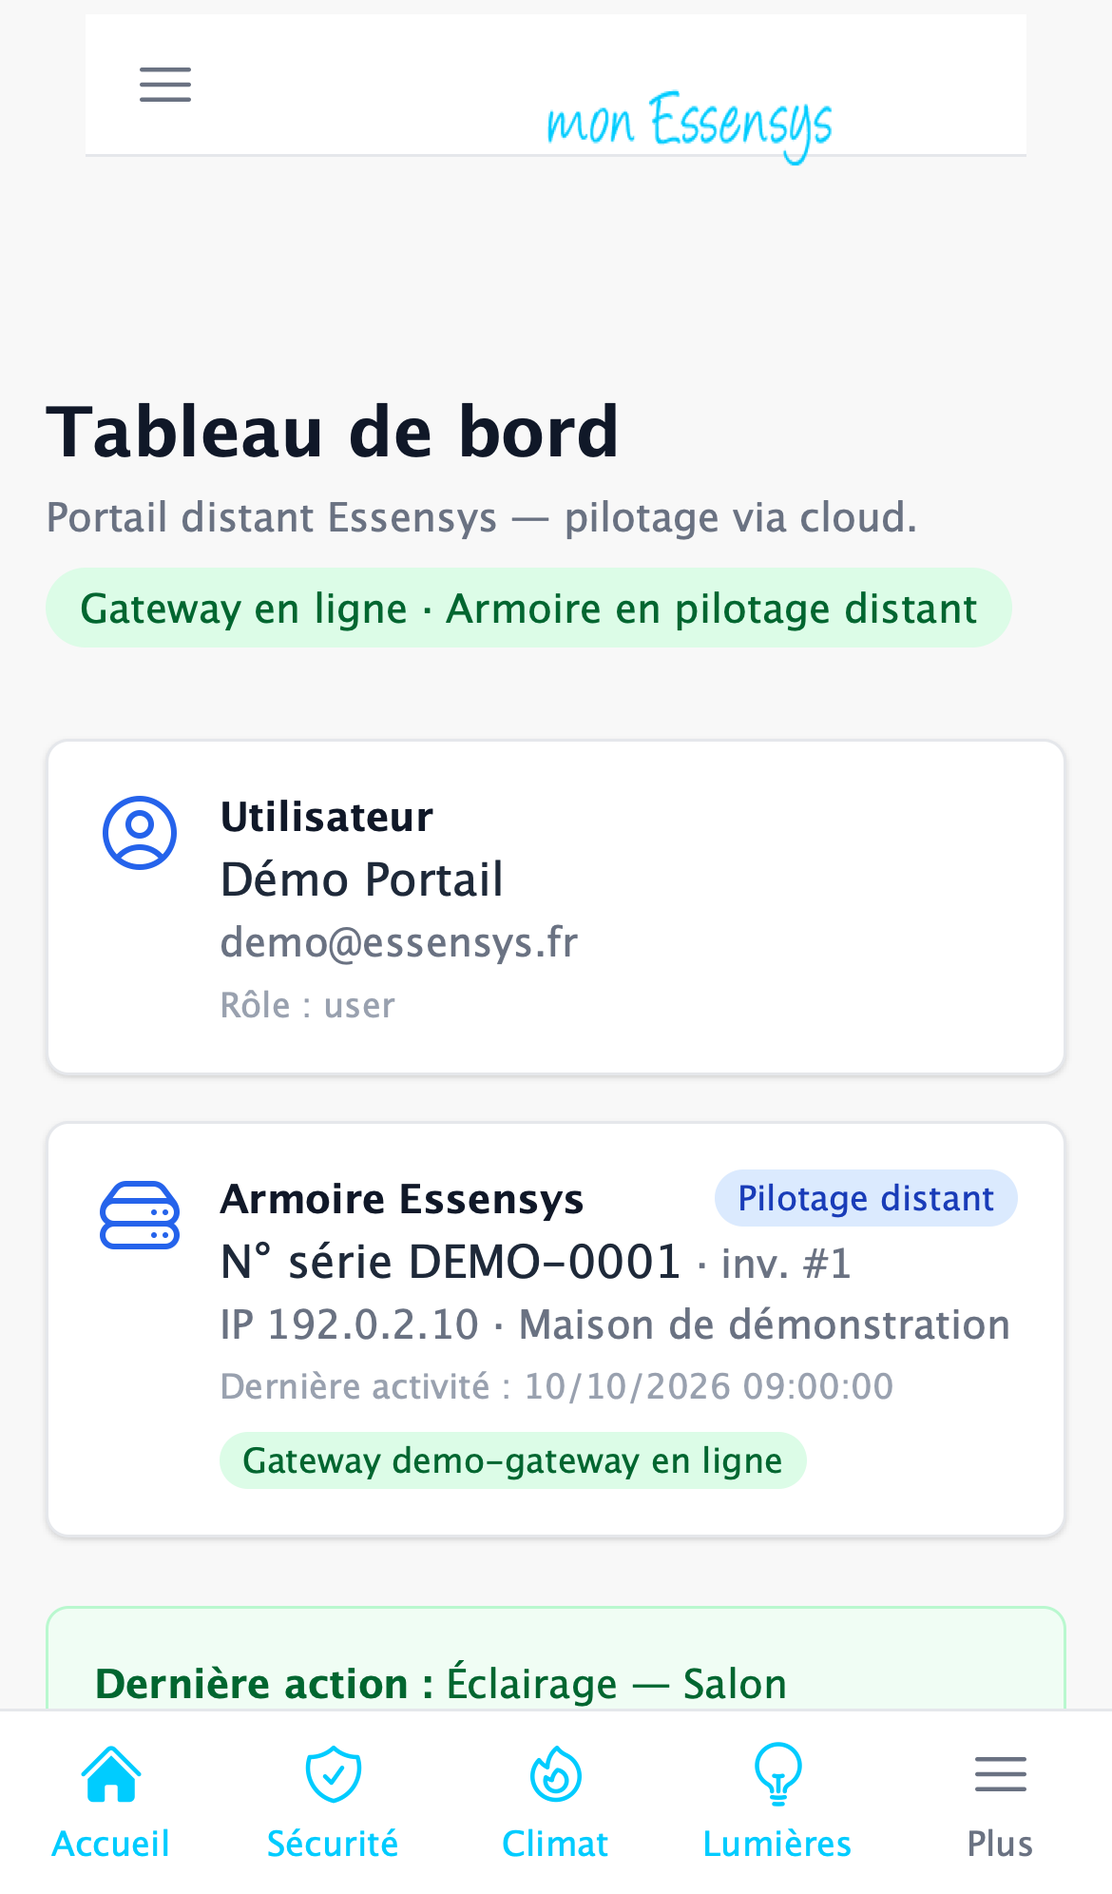
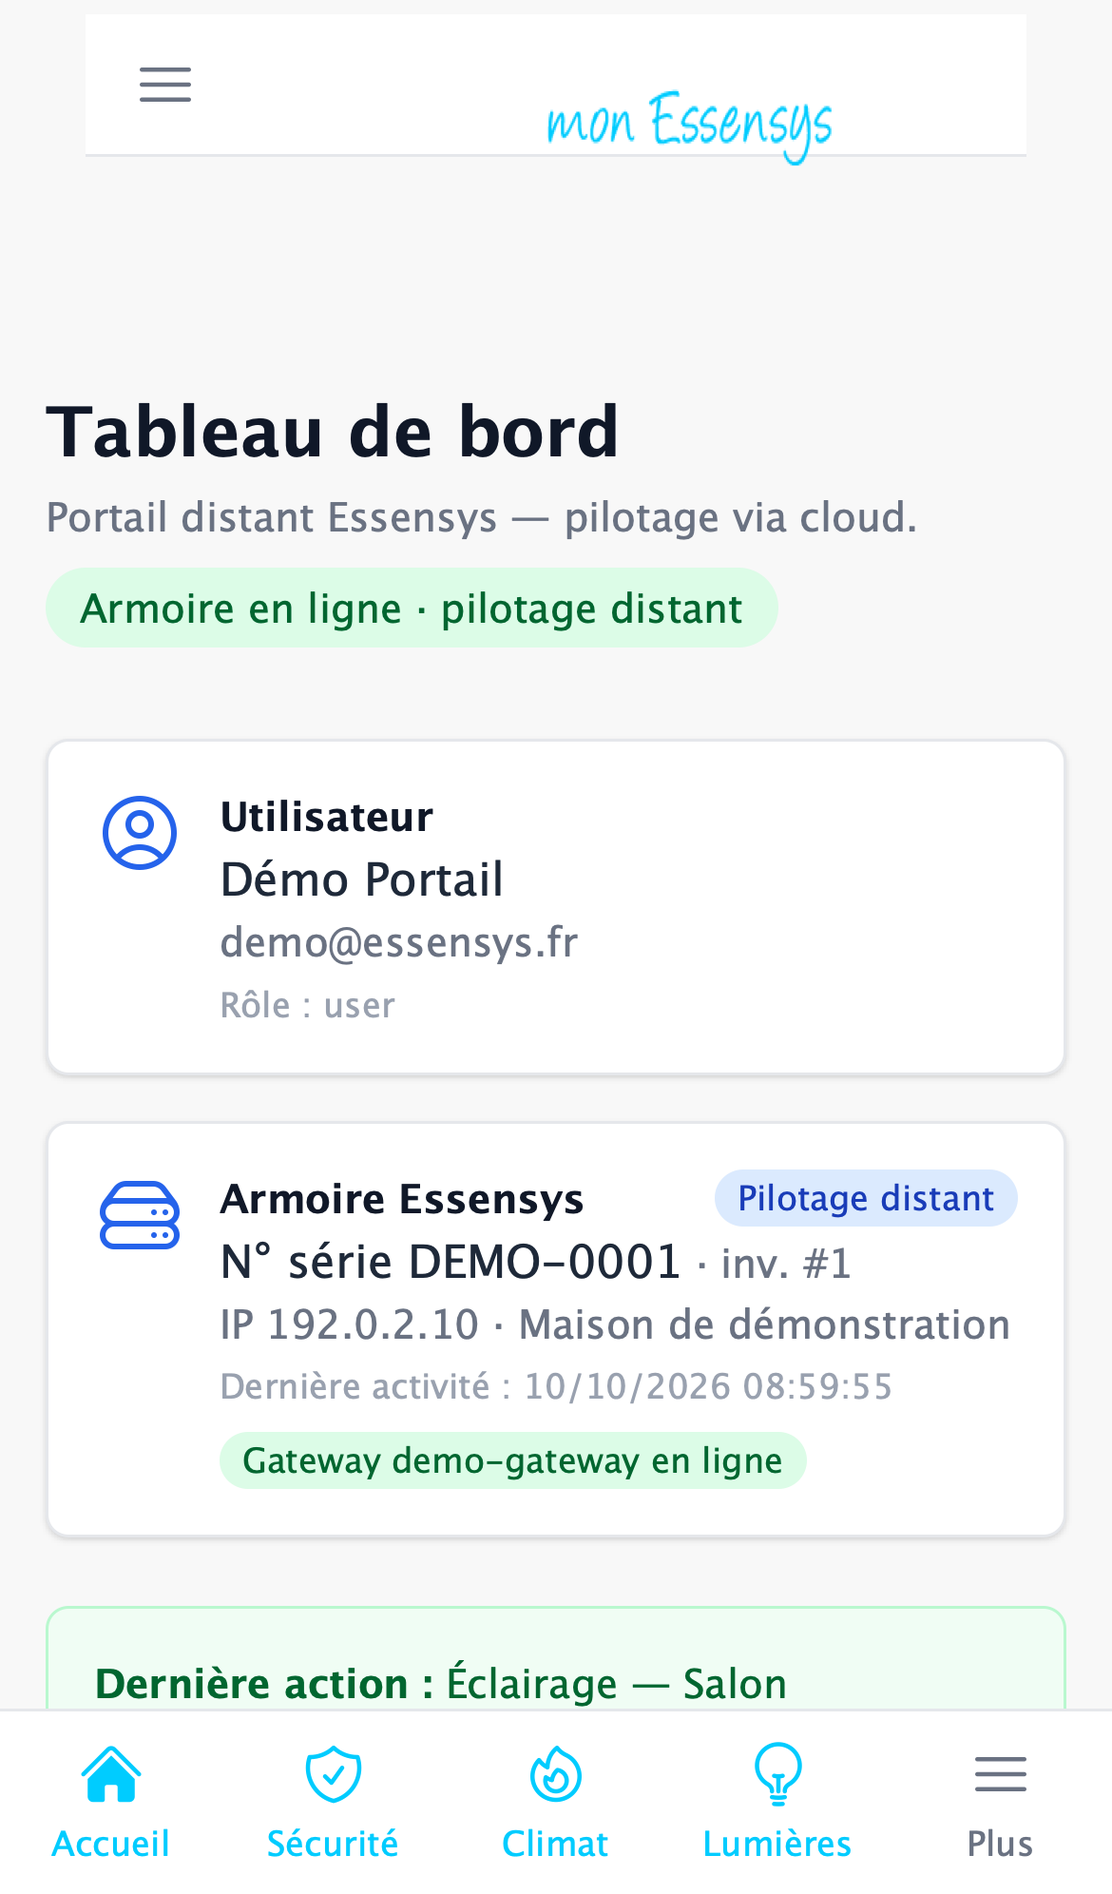
fix(portal): armoire en ligne avec ou sans gateway (#34, #35)
isArmoireOnline(session) : gateway.online OU armoire.online, utilisé par le
tableau de bord (badge « Armoire en ligne »), Scénarios et la carte Prises
de sécurité. Session démo à variantes (avec ou sans gateway, armoire vue
ou ancienne). Guide utilisateur et captures du tableau de bord alignés.

NR-portal-frontend-9 : Playwright, cas A à F, desktop / iPhone / iPad,
garde no-armoire (le cas sans gateway est le signalement #37).

Feature: armoire-online-sans-gateway-2026-10-012
Refs essensys-hub/essensys-feature-lifecycle#37
Refs #34 #35

diff --git a/src/mockFetch.ts b/src/mockFetch.ts
@@ -2,6 +2,61 @@ import { handleMockScenarioRequest } from './mockScenarios';
 
 const originalFetch = window.fetch;
 
+
+/**
+ * Variantes de la session simulée (armoire-online-sans-gateway-2026-10-012), choisies par
+ * `sessionStorage['essensys_demo_session']` : avec ou sans gateway, armoire vue ou ancienne.
+ */
+export type DemoSessionVariant =
+  | 'gateway-online'
+  | 'gateway-offline-armoire-seen'
+  | 'all-offline'
+  | 'no-gateway-seen'
+  | 'no-gateway-old'
+  | 'none';
+
+const demoSessionVariant = (): DemoSessionVariant => {
+  try {
+    return (sessionStorage.getItem('essensys_demo_session') as DemoSessionVariant | null) ?? 'gateway-online';
+  } catch {
+    return 'gateway-online';
+  }
+};
+
+const demoSession = (variant: DemoSessionVariant) => {
+  const hasGateway = variant === 'gateway-online' || variant === 'gateway-offline-armoire-seen' || variant === 'all-offline';
+  const gatewayOnline = variant === 'gateway-online';
+  const armoireSeen = variant === 'gateway-online' || variant === 'gateway-offline-armoire-seen' || variant === 'no-gateway-seen';
+  const lastSeen = new Date(Date.now() - (armoireSeen ? 5_000 : 10 * 60_000)).toISOString();
+  return {
+    portal_access: true,
+    user: {
+      id: 1,
+      email: 'demo@essensys.fr',
+      first_name: 'Démo',
+      last_name: 'Portail',
+      role: 'user',
+      linked_gateway_id: hasGateway ? 'gw-demo' : null,
+    },
+    ...(hasGateway ? { gateway: { id: 'gw-demo', online: gatewayOnline, hostname: 'demo-gateway' } } : {}),
+    // Armoire fictive (guide utilisateur, portal-user-guide-2026-10-006) : IP de la
+    // plage réservée à la documentation (RFC 5737), aucun équipement réel.
+    ...(variant === 'none'
+      ? {}
+      : {
+          armoire: {
+            id: 1,
+            no_serie: 'DEMO-0001',
+            ip: '192.0.2.10',
+            geo_location: 'Maison de démonstration',
+            last_seen: lastSeen,
+            remote: true,
+            online: armoireSeen,
+          },
+        }),
+  };
+};
+
 export function setupMocks() {
   console.log('[MOCK] Portail demo — mocks actifs (zéro action armoire)');
 
@@ -33,28 +88,7 @@ export function setupMocks() {
     }
 
     if (url.includes('/api/portal/session') && method === 'GET') {
-      return jsonResponse({
-        portal_access: true,
-        user: {
-          id: 1,
-          email: 'demo@essensys.fr',
-          first_name: 'Démo',
-          last_name: 'Portail',
-          role: 'user',
-          linked_gateway_id: 'gw-demo',
-        },
-        gateway: { id: 'gw-demo', online: true, hostname: 'demo-gateway' },
-        // Armoire fictive (guide utilisateur, portal-user-guide-2026-10-006) : IP de la
-        // plage réservée à la documentation (RFC 5737), aucun équipement réel.
-        armoire: {
-          id: 1,
-          no_serie: 'DEMO-0001',
-          ip: '192.0.2.10',
-          geo_location: 'Maison de démonstration',
-          last_seen: new Date().toISOString(),
-          remote: true,
-        },
-      });
+      return jsonResponse(demoSession(demoSessionVariant()));
     }
 
     if (url.includes('/api/portal/inject') && method === 'POST') {

diff --git a/e2e/tests/noArmoire.ts b/e2e/tests/noArmoire.ts
@@ -12,15 +12,24 @@ declare global {
   }
 }
 
+/** Variantes de la session simulée (voir `DemoSessionVariant` dans src/mockFetch.ts). */
+export type SessionVariant =
+  | 'gateway-online'
+  | 'gateway-offline-armoire-seen'
+  | 'all-offline'
+  | 'no-gateway-seen'
+  | 'no-gateway-old'
+  | 'none';
+
 /**
  * Garde no-armoire : toute requête hors localhost est bloquée, et le fetch simulé du mode démo
- * est enveloppé pour enregistrer les écritures (POST/PUT) vers /api/portal. Avec
- * `gatewayOffline`, la session simulée annonce une armoire hors ligne ; avec `withoutState`, la
+ * est enveloppé pour enregistrer les écritures (POST/PUT) vers /api/portal. `session` choisit la
+ * session simulée (avec ou sans gateway, armoire vue ou ancienne) ; avec `withoutState`, la
  * table d'échange ne renvoie pas l'indice 440 (installation sans gateway).
  */
 export async function noArmoire(
   page: Page,
-  opts: { gatewayOffline?: boolean; withoutState?: boolean } = {},
+  opts: { session?: SessionVariant; withoutState?: boolean } = {},
 ): Promise<string[]> {
   const external: string[] = [];
   await page.route('**/*', (route) => {
@@ -31,7 +40,10 @@ export async function noArmoire(
     }
     return route.continue();
   });
-  await page.addInitScript(({ offline, withoutState }: { offline: boolean; withoutState: boolean }) => {
+  await page.addInitScript((variant: string) => {
+    sessionStorage.setItem('essensys_demo_session', variant);
+  }, opts.session ?? 'gateway-online');
+  await page.addInitScript(({ withoutState }: { withoutState: boolean }) => {
     const native = window.fetch.bind(window);
     const passthrough = new WeakSet<object>();
     let inner: typeof window.fetch = native;
@@ -47,11 +59,6 @@ export async function noArmoire(
       const marked: RequestInit = { ...(init ?? {}) };
       passthrough.add(marked);
       const res = await inner(input, marked);
-      if (offline && url.includes('/api/portal/session')) {
-        const data = await res.json();
-        if (data.gateway) data.gateway.online = false;
-        return new Response(JSON.stringify(data), { status: 200, headers: { 'Content-Type': 'application/json' } });
-      }
       if (withoutState && url.includes('/api/portal/exchange')) {
         const data = await res.json();
         data.values = (data.values ?? []).filter((row: { k: number }) => row.k !== 440);
@@ -66,7 +73,7 @@ export async function noArmoire(
         inner = v;
       },
     });
-  }, { offline: opts.gatewayOffline ?? false, withoutState: opts.withoutState ?? false });
+  }, { withoutState: opts.withoutState ?? false });
   return external;
 }
 

diff --git a/e2e/tests/armoire-online.spec.ts b/e2e/tests/armoire-online.spec.ts
@@ -1,0 +1,45 @@
+/**
+ * Armoire en ligne avec ou sans gateway (armoire-online-sans-gateway-2026-10-012), portail cloud en démo.
+ * NR: NR-portal-frontend-9 essensys-hub/essensys-user-portal-frontend#35
+ * Le cas « sans gateway, armoire vue » est le signalement du 2026-10-26 (essensys-hub/essensys-feature-lifecycle#37).
+ */
+import { test, expect, type Page } from '@playwright/test';
+import { noArmoire, type SessionVariant } from './noArmoire';
+
+/** Tableau de bord, Scénarios et carte « Prises de sécurité » suivent la même règle. */
+async function expectOnline(page: Page, online: boolean) {
+  await page.goto('/dashboard');
+  await expect(page.getByText(online ? 'Armoire en ligne' : 'Armoire hors ligne', { exact: false }).first()).toBeVisible();
+
+  await page.goto('/scenarios');
+  const message = page.getByText('Armoire hors ligne — lancement et édition indisponibles.');
+  if (online) {
+    await expect(page.getByRole('button', { name: 'Lancer' }).first()).toBeEnabled();
+    await expect(message).toHaveCount(0);
+  } else {
+    // Hors ligne, la liste n'est pas chargée : le message est affiché et aucun « Lancer » n'est actif.
+    await expect(message).toBeVisible();
+    await expect(page.locator('button:not([disabled])', { hasText: 'Lancer' })).toHaveCount(0);
+  }
+
+  await page.goto('/security');
+  const outlets = page.getByTestId('security-outlets');
+  await expect(outlets).toBeVisible();
+  const cut = outlets.getByRole('button', { name: 'Couper', exact: true });
+  if (online) await expect(cut).toBeEnabled();
+  else await expect(cut).toBeDisabled();
+}
+
+async function check(page: Page, variant: SessionVariant, online: boolean) {
+  const external = await noArmoire(page, { session: variant });
+  await expectOnline(page, online);
+  expect(external).toEqual([]);
+}
+
+// Titres littéraux : la gate de couverture les lit dans le source.
+test('@nr NR-portal-frontend-9 avec gateway en ligne', async ({ page }) => check(page, 'gateway-online', true));
+test('@nr NR-portal-frontend-9 gateway hors ligne armoire vue', async ({ page }) => check(page, 'gateway-offline-armoire-seen', true));
+test('@nr NR-portal-frontend-9 gateway et armoire hors ligne', async ({ page }) => check(page, 'all-offline', false));
+test('@nr NR-portal-frontend-9 sans gateway armoire vue en ligne', async ({ page }) => check(page, 'no-gateway-seen', true));
+test('@nr NR-portal-frontend-9 sans gateway armoire ancienne hors ligne', async ({ page }) => check(page, 'no-gateway-old', false));
+test('@nr NR-portal-frontend-9 sans gateway ni armoire hors ligne', async ({ page }) => check(page, 'none', false));

diff --git a/src/pages/ScenariosPage.tsx b/src/pages/ScenariosPage.tsx
@@ -4,6 +4,7 @@ import { PageHeader } from '../components/UI';
 import { ScenarioButtonGrid, ScenarioEditorDrawer } from '../components/Scenarios';
 import { useScenarios } from '../hooks/useScenarios';
 import { usePortalSession } from '../context/PortalSessionContext';
+import { isArmoireOnline } from '../api/portalApi';
 import {
   fetchScenario,
   fetchScenarioBitmasks,
@@ -16,10 +17,10 @@ import {
 
 export const ScenariosPage: React.FC = () => {
   const { session } = usePortalSession();
-  const gatewayOnline = session?.gateway?.online ?? false;
+  const armoireOnline = isArmoireOnline(session);
 
   const { slots, loading, error, message, launchingSlot, lastLaunched, launch } = useScenarios({
-    disabled: !gatewayOnline,
+    disabled: !armoireOnline,
   });
 
   const [editorSlot, setEditorSlot] = useState<number | null>(null);
@@ -30,10 +31,10 @@ export const ScenariosPage: React.FC = () => {
   const [editorMessage, setEditorMessage] = useState<string | null>(null);
 
   useEffect(() => {
-    if (gatewayOnline) {
+    if (armoireOnline) {
       fetchScenarioBitmasks().then(setBitmasks).catch(console.error);
     }
-  }, [gatewayOnline]);
+  }, [armoireOnline]);
 
   const openEditor = useCallback(async (slot: number) => {
     setEditorSlot(slot);
@@ -103,9 +104,9 @@ export const ScenariosPage: React.FC = () => {
         icon={BoltIcon}
       />
 
-      {!gatewayOnline && (
+      {!armoireOnline && (
         <div className="rounded-lg px-4 py-3 text-sm bg-amber-50 text-amber-800">
-          Gateway hors ligne — lancement et édition indisponibles.
+          Armoire hors ligne — lancement et édition indisponibles.
         </div>
       )}
 
@@ -131,7 +132,7 @@ export const ScenariosPage: React.FC = () => {
         <ScenarioButtonGrid
           slots={slots}
           launchingSlot={launchingSlot}
-          disabled={!gatewayOnline}
+          disabled={!armoireOnline}
           onLaunch={launch}
           onEdit={openEditor}
         />

diff --git a/src/pages/DashboardPage.tsx b/src/pages/DashboardPage.tsx
@@ -13,6 +13,7 @@ import {
 import { CardSummary, PortalContextPanel } from '../components/UI';
 import { useLastAction } from '../hooks';
 import { usePortalSession } from '../context/PortalSessionContext';
+import { isArmoireOnline } from '../api/portalApi';
 
 const formatActionInfo = (actionType: string | null | undefined, actionInfo: string | null | undefined): string => {
   if (actionInfo) return actionInfo;
@@ -23,7 +24,7 @@ const formatActionInfo = (actionType: string | null | undefined, actionInfo: str
 export const DashboardPage: React.FC = () => {
   const { lastAction, loading, polling, error, refetch } = useLastAction();
   const { session } = usePortalSession();
-  const gatewayOnline = session?.gateway?.online ?? false;
+  const armoireOnline = isArmoireOnline(session);
 
   const lastActionDate = lastAction?.timestamp ? new Date(lastAction.timestamp) : undefined;
   const lastActionText = lastAction
@@ -37,9 +38,9 @@ export const DashboardPage: React.FC = () => {
         <p className="mt-1 text-sm text-gray-500">
           Portail distant Essensys — pilotage via cloud.
         </p>
-        <p className={`mt-2 inline-block text-sm px-3 py-1 rounded-full ${gatewayOnline ? 'bg-green-100 text-green-800' : 'bg-gray-200 text-gray-700'}`}>
-          Gateway {gatewayOnline ? 'en ligne' : 'hors ligne'}
-          {session?.armoire?.remote && ' · Armoire en pilotage distant'}
+        <p className={`mt-2 inline-block text-sm px-3 py-1 rounded-full ${armoireOnline ? 'bg-green-100 text-green-800' : 'bg-gray-200 text-gray-700'}`}>
+          Armoire {armoireOnline ? 'en ligne' : 'hors ligne'}
+          {session?.armoire?.remote && ' · pilotage distant'}
         </p>
       </div>
 

diff --git a/src/api/portalApi.ts b/src/api/portalApi.ts
@@ -96,6 +96,8 @@ export interface PortalArmoireInfo {
   last_seen?: string;
   geo_location?: string;
   remote: boolean;
+  /** Dernier contact de l'armoire de 2 min au plus (armoire-online-sans-gateway-2026-10-012). */
+  online?: boolean;
 }
 
 export interface PortalSessionResponse {
@@ -104,6 +106,14 @@ export interface PortalSessionResponse {
   gateway?: PortalGatewayInfo | null;
   armoire?: PortalArmoireInfo | null;
 }
+
+/**
+ * Armoire en ligne : la gateway OU l'armoire elle-même a été vue depuis 2 min au plus.
+ * Une installation sans gateway n'a pas de bloc `gateway` : seul `armoire.online` compte (#37).
+ * Un champ absent (ancien backend) vaut faux.
+ */
+export const isArmoireOnline = (session: PortalSessionResponse | null | undefined): boolean =>
+  Boolean(session?.gateway?.online || session?.armoire?.online);
 
 export const fetchPortalSession = async (): Promise<PortalSessionResponse> => {
   const res = await portalFetch('/session');

diff --git a/src/pages/SecurityPage.tsx b/src/pages/SecurityPage.tsx
@@ -3,6 +3,7 @@ import { ShieldCheckIcon } from '@heroicons/react/24/outline';
 import { PageHeader, ControlCard, ActionButton } from '../components/UI';
 import { SecurityOutletsCard } from '../components/Security/SecurityOutletsCard';
 import { usePortalSession } from '../context/PortalSessionContext';
+import { isArmoireOnline } from '../api/portalApi';
 import { useTestMode } from '../context/TestModeContext';
 import { getExchangeValues, sendAlarmAction, sendInjectionBatch } from '../services/legacyApi';
 import { SECURITY_OUTLETS_STATE_INDEX } from '../security/securityOutlets';
@@ -115,7 +116,7 @@ export const SecurityPage: React.FC = () => {
         </ControlCard>
 
         <SecurityOutletsCard
-          online={session?.gateway?.online ?? false}
+          online={isArmoireOnline(session)}
           dryRun={testMode || import.meta.env.VITE_DEMO_MODE === 'true'}
           readState={readOutletsState}
           sendBatch={sendInjectionBatch}

diff --git a/docs/user-guide/screens.ts b/docs/user-guide/screens.ts
@@ -33,7 +33,7 @@ export const screens: Screen[] = [
     route: '/dashboard',
     title: 'Tableau de bord',
     markers: [
-      { n: 1, target: { text: /Gateway en ligne · Armoire/ } },
+      { n: 1, target: { text: /Armoire en ligne · pilotage distant/ } },
       { n: 2, target: { role: 'heading', name: 'Armoire Essensys' } },
       { n: 3, target: { text: /Dernière action/ } },
       { n: 4, target: { text: /Rappel/ } },

diff --git a/e2e/tests/security-outlets.spec.ts b/e2e/tests/security-outlets.spec.ts
@@ -47,7 +47,7 @@ test.describe('prises de sécurité', () => {
   });
 
   test('@nr NR-portal-frontend-8 commandes desactivees hors ligne', async ({ page }) => {
-    await noArmoire(page, { gatewayOffline: true });
+    await noArmoire(page, { session: 'all-offline' });
     await page.goto('/security');
     const card = page.getByTestId('security-outlets');
     await expect(card.getByText('Armoire hors ligne')).toBeVisible();

diff --git a/openspec/changes/armoire-online-sans-gateway-2026-10-012/design.md b/openspec/changes/armoire-online-sans-gateway-2026-10-012/design.md
@@ -31,10 +31,10 @@ Motivation : voir `proposal.md`. État des lieux (2026-10-26) : le cloud calcule
 `isArmoireOnline(session)` dans `src/api/portalApi.ts` (ou un module `src/session/online.ts`) : `Boolean(session?.gateway?.online || session?.armoire?.online)`. Toutes les pages l'utilisent ; plus aucune lecture directe de `gateway.online` pour décider d'activer une commande.
 
 ### D2 — Libellés
-Le badge du tableau de bord passe de « Gateway en ligne » à « Armoire en ligne » / « Armoire hors ligne » quand il n'y a pas de gateway ; avec gateway, le texte actuel reste. `PortalContextPanel` affiche la gateway seulement s'il y en a une.
+Le badge du tableau de bord affiche toujours « Armoire en ligne » / « Armoire hors ligne » (suffixe « · pilotage distant ») au lieu de « Gateway en ligne » : avec une gateway hors ligne mais une armoire vue, « Gateway hors ligne » serait trompeur. `PortalContextPanel` garde sa ligne « Gateway … » (exacte), affichée seulement s'il y a une gateway. Guide utilisateur : `tableau-de-bord.md`, `premiers-pas.md` et captures.
 
 ### D3 — Tests `NR-portal-frontend-9`
-Playwright en mode démo, garde no-armoire, matrice desktop / iPhone / iPad : `mockFetch` sert une session choisie par un paramètre (cas A à F). Cas D = tableau de bord et Scénarios actifs, carte « Prises de sécurité » active.
+Playwright en mode démo, garde no-armoire, matrice desktop / iPhone / iPad : `mockFetch` sert une session choisie par `sessionStorage['essensys_demo_session']` (cas A à F ; le cas G, LAN, ne concerne pas ce portail). Cas D = tableau de bord et Scénarios actifs, carte « Prises de sécurité » active.
 
 ## Risks / Trade-offs
 

diff --git a/docs/user-guide/tableau-de-bord.md b/docs/user-guide/tableau-de-bord.md
@@ -12,7 +12,7 @@ Il s'ouvre après la connexion. Vous y revenez à tout moment avec **Tableau de 
 
 ## L'écran en détail
 
-1. **État de la connexion** : « Gateway en ligne » signifie que votre installation est joignable. « Armoire en pilotage distant » confirme que les commandes peuvent être envoyées depuis le portail.
+1. **État de la connexion** : « Armoire en ligne » signifie que votre installation est joignable (avec ou sans boîtier gateway). « pilotage distant » confirme que les commandes peuvent être envoyées depuis le portail.
 2. **Armoire Essensys** : le numéro de série de votre armoire, sa dernière activité et l'état de la passerelle (gateway).
 3. **Dernière action** : la dernière commande envoyée, avec sa date et son état (« Exécutée » quand l'armoire l'a traitée). Le bouton circulaire à droite rafraîchit l'affichage.
 4. **Rappel « boucle ouverte »** : le portail affiche la dernière commande envoyée, pas forcément l'état réel des équipements.
@@ -32,7 +32,7 @@ Le portail existe aussi en thème sombre (voir [Réglages](reglages.md)) :
 
 | Message | Que faire |
 |---|---|
-| Gateway hors ligne | Votre installation n'est pas joignable : vérifiez la box internet et l'alimentation de la passerelle. Les commandes ne partiront pas tant qu'elle est hors ligne. |
+| Armoire hors ligne | Votre installation n'est pas joignable : vérifiez la box internet et l'alimentation de l'armoire (et de la passerelle si vous en avez une). Les commandes ne partiront pas tant qu'elle est hors ligne. |
 | Aucune armoire liée à ce compte | Liez votre armoire depuis votre profil (voir [Premiers pas](premiers-pas.md)). |
 
 ## Un problème ?

diff --git a/openspec/changes/armoire-online-sans-gateway-2026-10-012/tasks.md b/openspec/changes/armoire-online-sans-gateway-2026-10-012/tasks.md
@@ -1,9 +1,9 @@
 ## 1. Règle armoire en ligne (#34)
 
-- [ ] 1.1 Ajouter `isArmoireOnline(session)` et le champ `armoire.online` au type ; l'utiliser dans `DashboardPage`, `ScenariosPage`, `SecurityPage` et `PortalContextPanel` ; vérifier par `npm run build` et `npm run lint`
-- [ ] 1.2 Variantes de session (avec et sans gateway, armoire vue ou ancienne) dans `mockFetch` ; vérifier à la main dans le mode démo
+- [x] 1.1 Ajouter `isArmoireOnline(session)` et le champ `armoire.online` au type ; l'utiliser dans `DashboardPage`, `ScenariosPage`, `SecurityPage` et `PortalContextPanel` ; vérifier par `npm run build` et `npm run lint`
+- [x] 1.2 Variantes de session (avec et sans gateway, armoire vue ou ancienne) dans `mockFetch` ; vérifier à la main dans le mode démo
 
 ## 2. Tests et livraison (#35)
 
-- [ ] 2.1 Tests Playwright `@nr NR-portal-frontend-9` (cas A à F, desktop / iPhone / iPad, garde no-armoire) ; vérifier qu'ils passent en local
+- [x] 2.1 Tests Playwright `@nr NR-portal-frontend-9` (cas A à F, desktop / iPhone / iPad, garde no-armoire) ; vérifier qu'ils passent en local
 - [ ] 2.2 `/checkup` vert, déploiement du portail cloud (`deploy-portal-stack.yml`) après le backend, puis validation sur le banc BP
